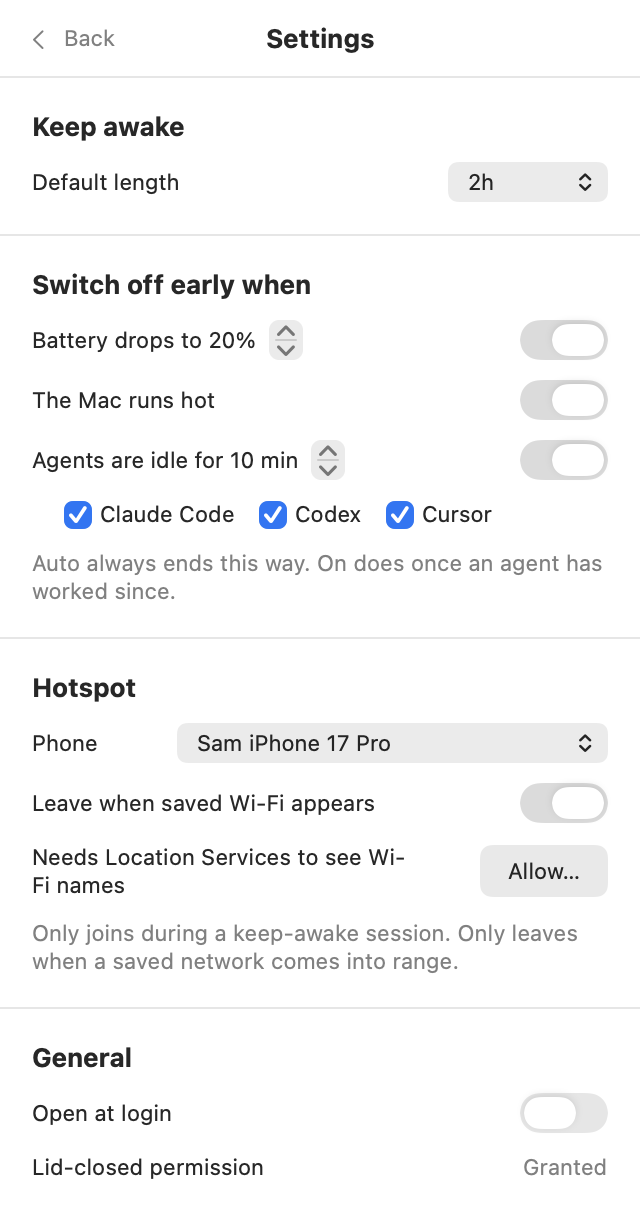
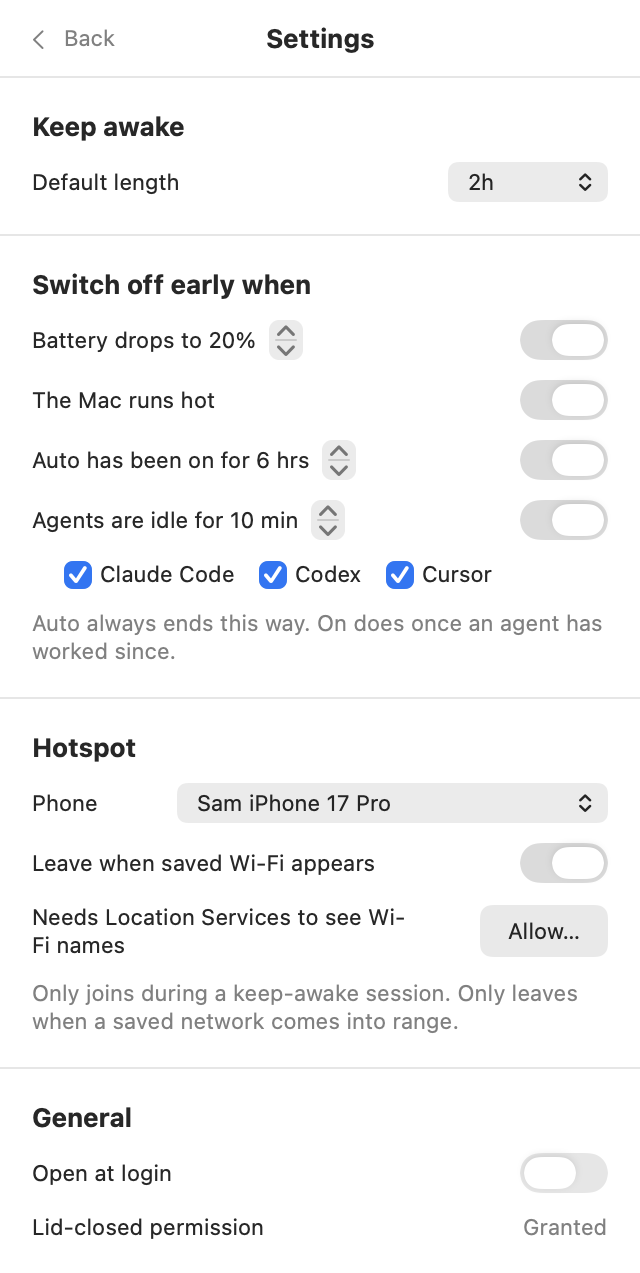
Limit how long Auto stays on
An agent that never goes quiet, or a process one left running, used to keep
Auto on for as long as it lasted. Auto now switches off after six hours at a
stretch, with a switch and a stepper for it in Settings. It then stays off
until agents have been quiet for the grace period, or until Auto or On is
picked again, so the same agents can't switch it straight back on.

Auto also no longer switches on while the lid is shut with no display
attached. A shut Mac wakes briefly in its sleep, and an agent stirring with it
would otherwise undo the limit.

The session controller is told whether the Mac is put away, so the tests give
the same result with the lid open or shut and can't put the Mac to sleep.

Version 0.1.2.

diff --git a/Tests/CortadoTests/RulesTests.swift b/Tests/CortadoTests/RulesTests.swift
@@ -3,8 +3,9 @@ import Testing
 @testable import Cortado
 
 private let start = Date(timeIntervalSinceReferenceDate: 800_000_000)
-private let allRules = StopRules(batteryFloor: 20, stopWhenHot: true, agentsGrace: 600, endsWithAgents: true)
-private let noRules = StopRules(batteryFloor: nil, stopWhenHot: false, agentsGrace: 600, endsWithAgents: false)
+private let sixHours: TimeInterval = 6 * 3600
+private let allRules = StopRules(batteryFloor: 20, stopWhenHot: true, agentsGrace: 600, endsWithAgents: true, autoLimit: sixHours)
+private let noRules = StopRules(batteryFloor: nil, stopWhenHot: false, agentsGrace: 600, endsWithAgents: false, autoLimit: nil)
 
 private func entry(_ pid: pid_t, parent: pid_t = 1, _ path: String, footprint: UInt64 = 0, cpu: UInt64 = 0) -> ProcessEntry {
     ProcessEntry(pid: pid, parent: parent, path: path, footprint: footprint, cpuTime: cpu)
@@ -100,6 +101,23 @@ private func entry(_ pid: pid_t, parent: pid_t = 1, _ path: String, footprint: U
         // The panel names the same moment as the one it ends at.
         #expect(session.quietEnd(agentsLastActive: start.addingTimeInterval(400), grace: 600) == start.addingTimeInterval(1000))
         #expect(session.quietEnd(agentsLastActive: nil, grace: 600) == start.addingTimeInterval(600))
+    }
+
+    @Test func `Auto ends at its limit however busy agents look, and On is left to its own timer`() {
+        func reason(after seconds: TimeInterval, followsAgents: Bool, rules: StopRules = allRules) -> EndReason? {
+            Session(started: start, end: nil, followsAgents: followsAgents).endReason(
+                now: start.addingTimeInterval(seconds),
+                rules: rules,
+                battery: nil,
+                hotSince: nil,
+                agentsLastActive: start.addingTimeInterval(seconds - 5)
+            )
+        }
+        #expect(reason(after: sixHours - 1, followsAgents: true) == nil)
+        #expect(reason(after: sixHours, followsAgents: true) == .limit(sixHours))
+        #expect(reason(after: sixHours * 4, followsAgents: true, rules: noRules) == nil)
+        #expect(reason(after: sixHours * 4, followsAgents: false) == nil)
+        #expect(EndReason.limit(sixHours).note == "Auto had been on for 6 hrs")
     }
 }
 
@@ -310,15 +328,19 @@ private func entry(_ pid: pid_t, parent: pid_t = 1, _ path: String, footprint: U
 @Suite(.serialized) struct LidOverride {
     private static let transcript = Agent.claude.transcriptRoot + "/project/session.jsonl"
 
-    /// A controller with only the agent rules in play, so the Mac's battery and heat can't decide a test.
-    @MainActor private func controller() -> (SessionController, AgentMonitor, Settings) {
+    /// A controller with only the agent rules in play, so the Mac's battery, heat and lid can't decide a test.
+    @MainActor private func controller(
+        isPutAway: @escaping () -> Bool = { false }
+    ) -> (SessionController, AgentMonitor, Settings) {
         let defaults = UserDefaults(suiteName: "Cortado.tests")!
         defaults.removePersistentDomain(forName: "Cortado.tests")
         let settings = Settings(defaults: defaults)
         settings.batteryFloorEnabled = false
         settings.stopWhenHot = false
         let agents = AgentMonitor()
-        let controller = SessionController(settings: settings, agents: agents, hotspot: HotspotController(settings: settings))
+        let controller = SessionController(
+            settings: settings, agents: agents, hotspot: HotspotController(settings: settings), isPutAway: isPutAway
+        )
         controller.recover()
         return (controller, agents, settings)
     }
@@ -352,6 +374,76 @@ private func entry(_ pid: pid_t, parent: pid_t = 1, _ path: String, footprint: U
         #expect(controller.session == Session(started: at(20), end: nil, followsAgents: true))
 
         controller.select(.off, now: at(30))
+        #expect(!PowerControl.isLidSleepDisabled())
+    }
+
+    @Test(.enabled(if: PowerControl.hasLidSleepPermission() && !PowerControl.isLidSleepDisabled()))
+    @MainActor func `Auto switches off at its limit, and stays off until the agents have finished`() {
+        let (controller, agents, settings) = controller()
+        let now = Date.now
+        func at(_ seconds: TimeInterval) -> Date { now.addingTimeInterval(seconds) }
+        func work(at seconds: TimeInterval) { agents.transcriptsChanged([Self.transcript], now: at(seconds)) }
+
+        work(at: 0)
+        controller.tick(now: at(3))
+        #expect(controller.mark == .on)
+
+        work(at: sixHours)
+        controller.tick(now: at(sixHours))
+        #expect(controller.mark == .on, "three seconds short of six hours")
+        controller.tick(now: at(sixHours + 3))
+        #expect(!controller.isActive)
+        #expect(controller.mode == .auto)
+        #expect(controller.mark == .off, "not waiting either: the agent is still at it")
+        #expect(settings.lastSessionNote?.hasSuffix("Auto had been on for 6 hrs.") == true)
+        #expect(!PowerControl.isLidSleepDisabled())
+
+        work(at: sixHours + 60)
+        controller.tick(now: at(sixHours + 63))
+        #expect(!controller.isActive, "more work doesn't switch it back on")
+
+        controller.tick(now: at(sixHours + 60 + 600))
+        #expect(controller.mark == .waiting, "quiet for the grace period, so the next job gets Auto again")
+        work(at: sixHours + 700)
+        controller.tick(now: at(sixHours + 703))
+        #expect(controller.mark == .on)
+
+        // Picking Auto again doesn't wait for the agents to finish.
+        work(at: 2 * sixHours + 700)
+        controller.tick(now: at(2 * sixHours + 703))
+        #expect(!controller.isActive)
+        controller.select(.auto, now: at(2 * sixHours + 710))
+        #expect(controller.mark == .on)
+
+        controller.select(.off, now: at(2 * sixHours + 720))
+        #expect(!PowerControl.isLidSleepDisabled())
+    }
+
+    @Test(.enabled(if: PowerControl.hasLidSleepPermission() && !PowerControl.isLidSleepDisabled()))
+    @MainActor func `Auto leaves a shut Mac alone, and switches on once it is opened`() {
+        var lidShut = true
+        let (controller, agents, _) = controller(isPutAway: { lidShut })
+        let now = Date.now
+        func at(_ seconds: TimeInterval) -> Date { now.addingTimeInterval(seconds) }
+
+        agents.transcriptsChanged([Self.transcript], now: now)
+        controller.tick(now: at(3))
+        #expect(!controller.isActive, "an agent stirring under the lid")
+        #expect(controller.mark == .waiting)
+        #expect(!PowerControl.isLidSleepDisabled())
+
+        lidShut = false
+        controller.tick(now: at(6))
+        #expect(controller.mark == .on)
+        #expect(PowerControl.isLidSleepDisabled())
+
+        // Shutting the lid on a session that is already on changes nothing.
+        lidShut = true
+        agents.transcriptsChanged([Self.transcript], now: at(9))
+        controller.tick(now: at(12))
+        #expect(controller.mark == .on)
+
+        controller.select(.off, now: at(15))
         #expect(!PowerControl.isLidSleepDisabled())
     }
 
@@ -464,6 +556,9 @@ private func entry(_ pid: pid_t, parent: pid_t = 1, _ path: String, footprint: U
         let twoHours: TimeInterval = 2 * 3600
         #expect(settings.defaultLength == twoHours)
         #expect(settings.startWithAgents)
+        #expect(settings.stopRules.autoLimit == sixHours)
+        settings.autoLimitEnabled = false
+        #expect(Settings(defaults: defaults).stopRules.autoLimit == nil)
         #expect(Session.lengths.contains(settings.defaultLength))
 
         settings.defaultLength = nil

diff --git a/Sources/Cortado/SessionController.swift b/Sources/Cortado/SessionController.swift
@@ -10,6 +10,8 @@ nonisolated struct StopRules: Sendable, Equatable {
     var agentsGrace: TimeInterval
     /// Whether a session switched on by hand also ends when agents finish.
     var endsWithAgents: Bool
+    /// The longest a session that follows agents may last, however busy they look.
+    var autoLimit: TimeInterval?
 }
 
 nonisolated enum EndReason: Sendable, Equatable {
@@ -18,6 +20,7 @@ nonisolated enum EndReason: Sendable, Equatable {
     case battery(Int)
     case tooHot
     case agentsFinished
+    case limit(TimeInterval)
     case quit
 
     var note: String {
@@ -27,6 +30,7 @@ nonisolated enum EndReason: Sendable, Equatable {
         case .battery(let percent): "battery reached \(percent)%"
         case .tooHot: "the Mac was running hot"
         case .agentsFinished: "agents finished"
+        case .limit(let length): "Auto had been on for \(Format.spelledDuration(length))"
         case .quit: "Cortado quit"
         }
     }
@@ -66,6 +70,9 @@ nonisolated struct Session: Sendable, Equatable {
         if followsAgents {
             if now >= quietEnd(agentsLastActive: agentsLastActive, grace: rules.agentsGrace) {
                 return .agentsFinished
+            }
+            if let limit = rules.autoLimit, now.timeIntervalSince(started) >= limit {
+                return .limit(limit)
             }
         } else if rules.endsWithAgents, AgentIdleRule.isFinished(
             lastActive: agentsLastActive, sessionStart: started, grace: rules.agentsGrace, now: now
@@ -113,7 +120,7 @@ final class SessionController {
     private(set) var hasPermission = false
     private(set) var startError: String?
     private(set) var isInstallingPermission = false
-    /// macOS refused to switch on for agents. It isn't tried again until they finish.
+    /// Auto isn't to switch on again until agents finish: macOS refused to, or it reached its limit.
     private(set) var isHeldOff = false
 
     /// The three positions of the panel's control.
@@ -128,6 +135,8 @@ final class SessionController {
     @ObservationIgnored private let settings: Settings
     @ObservationIgnored private let agents: AgentMonitor
     @ObservationIgnored private let hotspot: HotspotController
+    /// Whether the lid is shut with no display attached. Tests answer for the lid themselves.
+    @ObservationIgnored private let isPutAway: () -> Bool
     @ObservationIgnored private var watchdog: PowerControl.Watchdog?
     @ObservationIgnored private var assertion: IOPMAssertionID?
     @ObservationIgnored private var hotSince: Date?
@@ -156,10 +165,16 @@ final class SessionController {
         return session.followsAgents || settings.stopWhenAgentsFinish
     }
 
-    init(settings: Settings, agents: AgentMonitor, hotspot: HotspotController) {
+    init(
+        settings: Settings,
+        agents: AgentMonitor,
+        hotspot: HotspotController,
+        isPutAway: @escaping () -> Bool = PowerControl.isPutAway
+    ) {
         self.settings = settings
         self.agents = agents
         self.hotspot = hotspot
+        self.isPutAway = isPutAway
     }
 
     /// Call once at launch. Restores normal sleep if a previous run ended mid-session.
@@ -237,7 +252,7 @@ final class SessionController {
         settings.lastSessionNote = reason == .stopped ? nil : "Turned off at \(time): \(reason.note)."
 
         // With the lid shut nothing else will put the Mac to sleep until it is opened and closed again.
-        if reason != .stopped, reason != .quit, PowerControl.isPutAway() {
+        if reason != .stopped, reason != .quit, isPutAway() {
             PowerControl.sleepNow()
         }
     }
@@ -271,6 +286,10 @@ final class SessionController {
             begin(Session(started: session.started, end: nil, followsAgents: true))
         } else {
             stop(reason, now: now)
+            // Agents still at it would otherwise switch it straight back on.
+            if case .limit = reason {
+                isHeldOff = true
+            }
         }
     }
 
@@ -285,6 +304,8 @@ final class SessionController {
             return
         }
         guard hasPermission, AgentIdleRule.isWorking(lastActive: lastActive, now: now) else { return }
+        // A shut Mac stirs in its sleep, and an agent that stirs with it is no reason to keep it awake.
+        guard !isPutAway() else { return }
         // No point starting what a rule would end at once: a low battery, or a Mac already running hot.
         let session = Session(started: now, end: nil, followsAgents: true)
         let blocked = session.endReason(

diff --git a/Sources/Cortado/Settings.swift b/Sources/Cortado/Settings.swift
@@ -14,6 +14,9 @@ final class Settings {
     var batteryFloorEnabled: Bool { didSet { defaults.set(batteryFloorEnabled, forKey: Key.batteryFloorEnabled) } }
     var batteryFloor: Int { didSet { defaults.set(batteryFloor, forKey: Key.batteryFloor) } }
     var stopWhenHot: Bool { didSet { defaults.set(stopWhenHot, forKey: Key.stopWhenHot) } }
+    /// The longest Auto stays on at a stretch, however busy agents look.
+    var autoLimitEnabled: Bool { didSet { defaults.set(autoLimitEnabled, forKey: Key.autoLimitEnabled) } }
+    var autoLimitHours: Int { didSet { defaults.set(autoLimitHours, forKey: Key.autoLimitHours) } }
 
     var stopWhenAgentsFinish: Bool { didSet { defaults.set(stopWhenAgentsFinish, forKey: Key.stopWhenAgentsFinish) } }
     var agentsGraceMinutes: Int { didSet { defaults.set(agentsGraceMinutes, forKey: Key.agentsGraceMinutes) } }
@@ -44,6 +47,8 @@ final class Settings {
             Key.batteryFloorEnabled: true,
             Key.batteryFloor: 20,
             Key.stopWhenHot: true,
+            Key.autoLimitEnabled: true,
+            Key.autoLimitHours: 6,
             Key.stopWhenAgentsFinish: true,
             Key.agentsGraceMinutes: 10,
             Key.watchedAgents: Agent.allCases.map(\.rawValue),
@@ -56,6 +61,8 @@ final class Settings {
         batteryFloorEnabled = defaults.bool(forKey: Key.batteryFloorEnabled)
         batteryFloor = defaults.integer(forKey: Key.batteryFloor)
         stopWhenHot = defaults.bool(forKey: Key.stopWhenHot)
+        autoLimitEnabled = defaults.bool(forKey: Key.autoLimitEnabled)
+        autoLimitHours = defaults.integer(forKey: Key.autoLimitHours)
         stopWhenAgentsFinish = defaults.bool(forKey: Key.stopWhenAgentsFinish)
         agentsGraceMinutes = defaults.integer(forKey: Key.agentsGraceMinutes)
         watchedAgents = Set((defaults.stringArray(forKey: Key.watchedAgents) ?? []).compactMap(Agent.init))
@@ -73,7 +80,8 @@ final class Settings {
             batteryFloor: batteryFloorEnabled ? batteryFloor : nil,
             stopWhenHot: stopWhenHot,
             agentsGrace: TimeInterval(agentsGraceMinutes * 60),
-            endsWithAgents: stopWhenAgentsFinish
+            endsWithAgents: stopWhenAgentsFinish,
+            autoLimit: autoLimitEnabled ? TimeInterval(autoLimitHours * 3600) : nil
         )
     }
 
@@ -83,6 +91,8 @@ final class Settings {
         static let batteryFloorEnabled = "batteryFloorEnabled"
         static let batteryFloor = "batteryFloor"
         static let stopWhenHot = "stopWhenHot"
+        static let autoLimitEnabled = "autoLimitEnabled"
+        static let autoLimitHours = "autoLimitHours"
         static let stopWhenAgentsFinish = "stopWhenAgentsFinish"
         static let agentsGraceMinutes = "agentsGraceMinutes"
         static let watchedAgents = "watchedAgents"

diff --git a/Sources/Cortado/SettingsView.swift b/Sources/Cortado/SettingsView.swift
@@ -46,6 +46,12 @@ struct SettingsView: View {
                 SettingRow("The Mac runs hot") {
                     Toggle("The Mac runs hot", isOn: $settings.stopWhenHot)
                 }
+                SettingRow("Auto has been on for \(Format.spelledDuration(TimeInterval(settings.autoLimitHours * 3600)))") {
+                    Toggle("Auto has been on too long", isOn: $settings.autoLimitEnabled)
+                } stepper: {
+                    Stepper("Hours on Auto", value: $settings.autoLimitHours, in: 1...24)
+                        .disabled(!settings.autoLimitEnabled)
+                }
                 SettingRow("Agents are idle for \(settings.agentsGraceMinutes) min") {
                     Toggle("Agents have finished", isOn: $settings.stopWhenAgentsFinish)
                 } stepper: {

diff --git a/README.md b/README.md
@@ -109,7 +109,9 @@ One control with three positions, and a knob that slides to the one picked:
 - **Auto**: on while agents work. When Claude Code, Codex or Cursor starts
   working, a session starts with no timer and lasts until they have been quiet
   for the grace period (default 10 minutes). Because the hotspot fallback is
-  armed by a session, that comes on with it.
+  armed by a session, that comes on with it. Auto only switches on with the lid
+  open or a display attached: a shut Mac stirs in its sleep now and then, and an
+  agent stirring with it is no reason to keep it awake.
 - **On**: on for the default length (two hours unless changed in Settings). The
   other lengths appear under it: 30m, 1h, 2h, 4h, 8h, ∞, and a clock for an end
   time on the half hour. Each length counts from now.
@@ -162,6 +164,10 @@ A session also ends early when any enabled rule fires (Settings):
 
 - **Battery is low**: at or below the floor (default 20%) while unplugged.
 - **Mac is running hot**: macOS reports serious thermal pressure for a minute.
+- **Auto has been on too long**: six hours at a stretch unless changed, however
+  busy agents look. This is the backstop for an agent that never goes quiet, or
+  a process one left running. Auto then stays off until the agents have been
+  quiet for the grace period, or until Auto or On is picked again.
 - **Agents have finished**: for On, once an agent has worked during it and then
   been quiet for the grace period. If no agent ever works, the timer decides.
 
